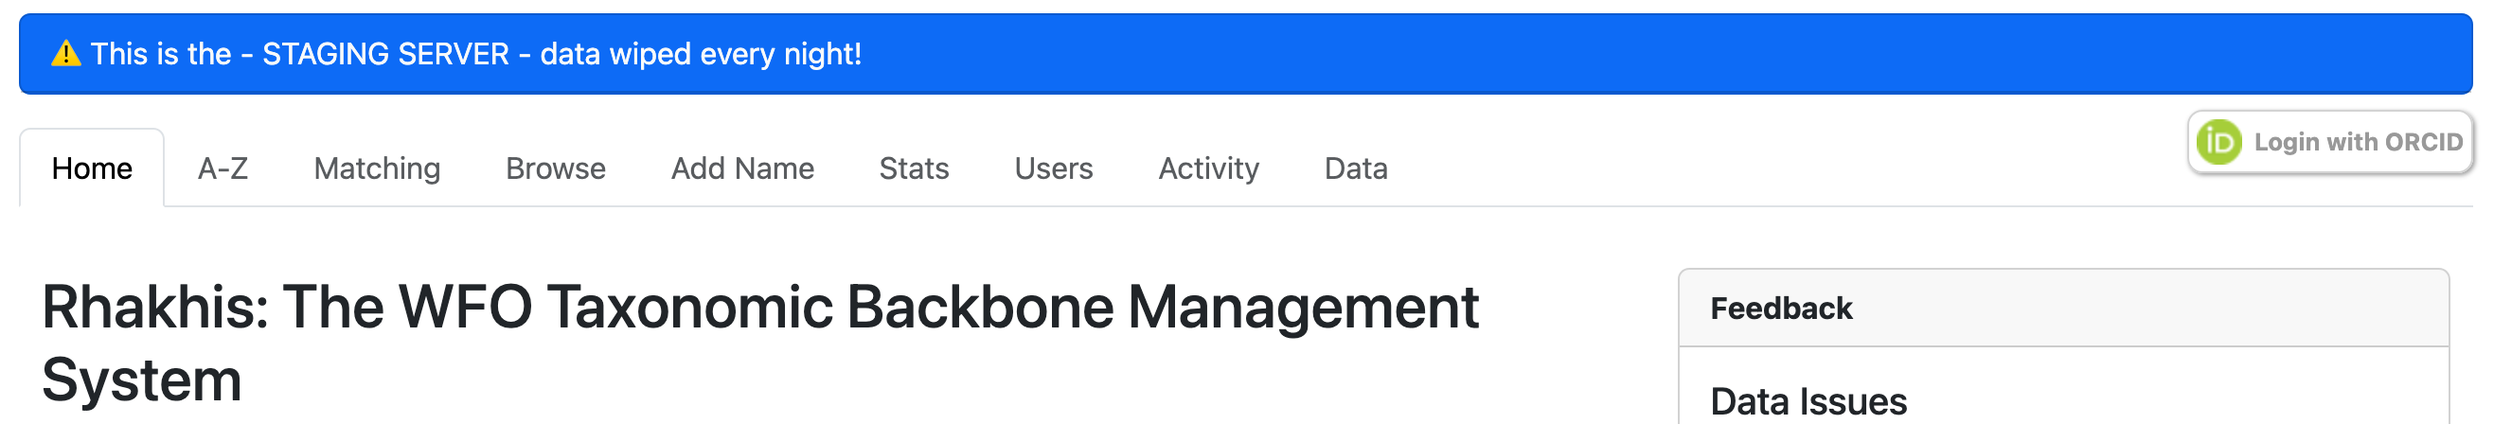
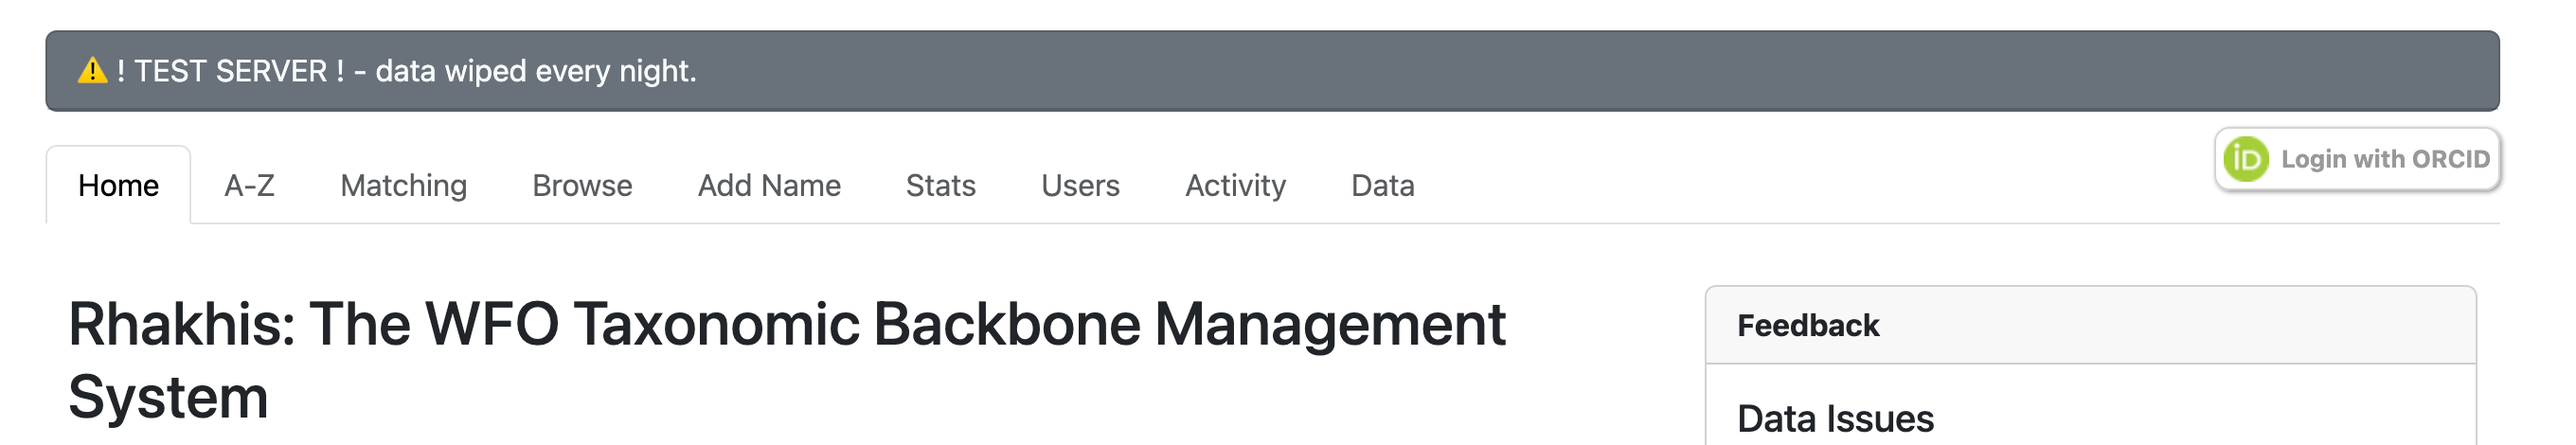
Built site for gh-pages

diff --git a/curators.html b/curators.html
@@ -223,7 +223,7 @@ ul.task-list li input[type="checkbox"] {
 <ul>
 <li><p><strong>Adopt a generally conservative approach.</strong> Avoid major departures from the status quo. If a taxonomic decision is likely to be contentious, it can be resolved using the same <a href="./guidelines.html#voting">voting system</a> employed for higher-level classification. Please remember that the PPG classification will serve a broad community, including as the taxonomic backbone for <a href="https://www.pteridoportal.org/portal/index.php">PteridoPortal</a> and potentially for the ferns and lycophytes in <a href="https://www.inaturalist.org/">iNaturalist</a>.</p></li>
 <li><p><strong>Do not make changes at the genus level or above.</strong> Such changes may only be made through the formal <a href="./guidelines.html#voting">voting process</a>. For example, please do not synonymize a genus or reinstate one from synonymy (moving species between accepted genera is fine). If you believe a higher-level change is needed, please contact a member of the <a href="./guidelines.html#coordinating-committee">Coordinating Committee</a>.</p></li>
-<li><p><strong>Familiarize yourself with Rhakhis before editing the real data.</strong> If you have not previously used Rhakhis, please begin with the <a href="#using-rhakhis">sandbox version</a> and move to the <a href="#using-rhakhis">main site</a> only once you are comfortable with the interface.</p></li>
+<li><p><strong>Familiarize yourself with Rhakhis before editing the real data.</strong> If you have not previously used Rhakhis, please begin with the <a href="#using-rhakhis">test server</a> and move to the <a href="#using-rhakhis">main site</a> only once you are comfortable with the interface.</p></li>
 <li><p><strong>Follow IPNI for author names and publications.</strong> If you believe <a href="https://www.ipni.org/">IPNI</a> contains an error, <a href="#formatting-of-author-names-and-publications">there is a process to contact them and request a correction</a>.</p></li>
 <li><p><strong>Do not create names that have not been validly published.</strong> This includes unpublished combinations (e.g., <em>comb. ined.</em> names). If a new combination or other nomenclatural act is needed, please contact a member of the <a href="./guidelines.html#coordinating-committee">Coordinating Committee</a>.</p></li>
 <li><p>In general, <strong>fertile allopolyploids should not be treated as hybrids</strong>; nothotaxa should refer only to sterile hybrids.</p></li>
@@ -257,14 +257,14 @@ Beyond identifying the correct number of accepted species, there are many tasks 
 <section id="workshop" class="level3">
 <h3 class="anchored" data-anchor-id="workshop">Workshop</h3>
 <p>At Botany 2025, there was a workshop on using Rhakhis for PPG. There are <a href="assets/botany-2025-rhakhis.pdf">slides</a> and a <a href="https://youtu.be/TrcwQNu665w">video</a> available. Watching the video is highly recommended before you start using Rhakhis.</p>
-<p>There is one correction to the workshop materials: only Rhakhis users who have been granted editing permissions may edit the data in the “sandbox”. We thought anybody with an <a href="https://orcid.org/">ORCID iD</a> could edit data in the sandbox, but that was mistaken. So there was no “hands-on” session.</p>
+<p>There is one correction to the workshop materials: only Rhakhis users who have been granted editing permissions may edit the data in the test server (referred to as the “sandbox” in the video). We thought anybody with an <a href="https://orcid.org/">ORCID iD</a> could edit data in the test server, but that was mistaken. So there was no “hands-on” session.</p>
 </section>
 </section>
 <section id="using-rhakhis" class="level2">
 <h2 class="anchored" data-anchor-id="using-rhakhis">Using Rhakhis</h2>
-<p>Rhakhis has two interfaces: a sandbox (AKA the “Staging Server”), where users can experiment without risking messing anything up, and the main site, where changes are immediately<a href="#fn1" class="footnote-ref" id="fnref1" role="doc-noteref"><sup>1</sup></a> reflected in the PPG classification.</p>
+<p>Rhakhis has two interfaces: a test server, where users can experiment without risking messing anything up, and the main site, where changes are immediately<a href="#fn1" class="footnote-ref" id="fnref1" role="doc-noteref"><sup>1</sup></a> reflected in the PPG classification.</p>
 <ul>
-<li>Sandbox: <a href="https://rhakhis-test.rbge.info/" class="uri">https://rhakhis-test.rbge.info/</a><br>
+<li>Test server: <a href="https://rhakhis-test.rbge.info/" class="uri">https://rhakhis-test.rbge.info/</a><br>
 </li>
 <li>Main site: <a href="https://rhakhis-live.rbge.info/" class="uri">https://rhakhis-live.rbge.info/</a></li>
 </ul>
@@ -281,14 +281,14 @@ Warning
 <p>One thing to keep in mind: <strong>there are no “Undo” or “Save” buttons</strong> in Rhakhis. Any change you make happens immediately and is permanent (that said, you can subsequently make another change to effectively reverse something if needed).</p>
 </div>
 </div>
-<p>We recommend first using the “Sandbox” (<a href="#fig-server" class="quarto-xref">Figure&nbsp;1</a>) for practice until you get used to the interface, as any changes made there are not actually used in PPG or WFO, and it gets reset nightly.</p>
+<p>We recommend first using the test server (<a href="#fig-server" class="quarto-xref">Figure&nbsp;1</a>) for practice until you get used to the interface, as any changes made there are not actually used in PPG or WFO, and it gets reset nightly.</p>
 <div id="fig-server" class="quarto-float quarto-figure quarto-figure-center anchored">
 <figure class="quarto-float quarto-float-fig figure">
 <div aria-describedby="fig-server-caption-0ceaefa1-69ba-4598-a22c-09a6ac19f8ca">
 <img src="images/curator-staging-server.png" class="img-fluid figure-img">
 </div>
 <figcaption class="quarto-float-caption-bottom quarto-float-caption quarto-float-fig" id="fig-server-caption-0ceaefa1-69ba-4598-a22c-09a6ac19f8ca">
-Figure&nbsp;1: Sandbox server. Note the blue bar at the top, which is absent from the real server.
+Figure&nbsp;1: Test server. Note the grey bar at the top, which is absent from the real server.
 </figcaption>
 </figure>
 </div>
